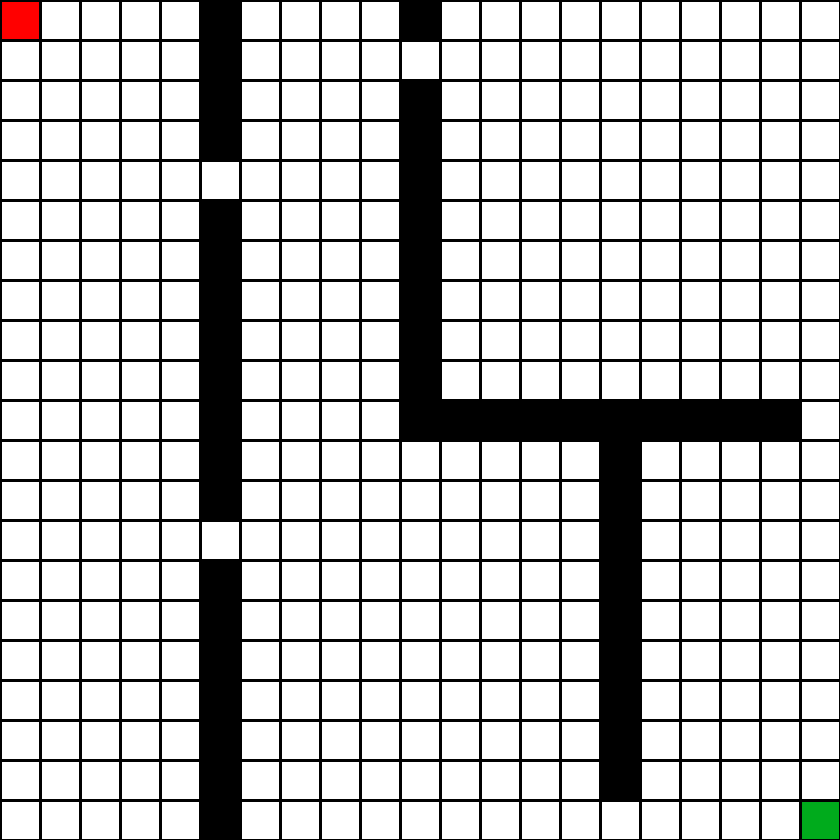
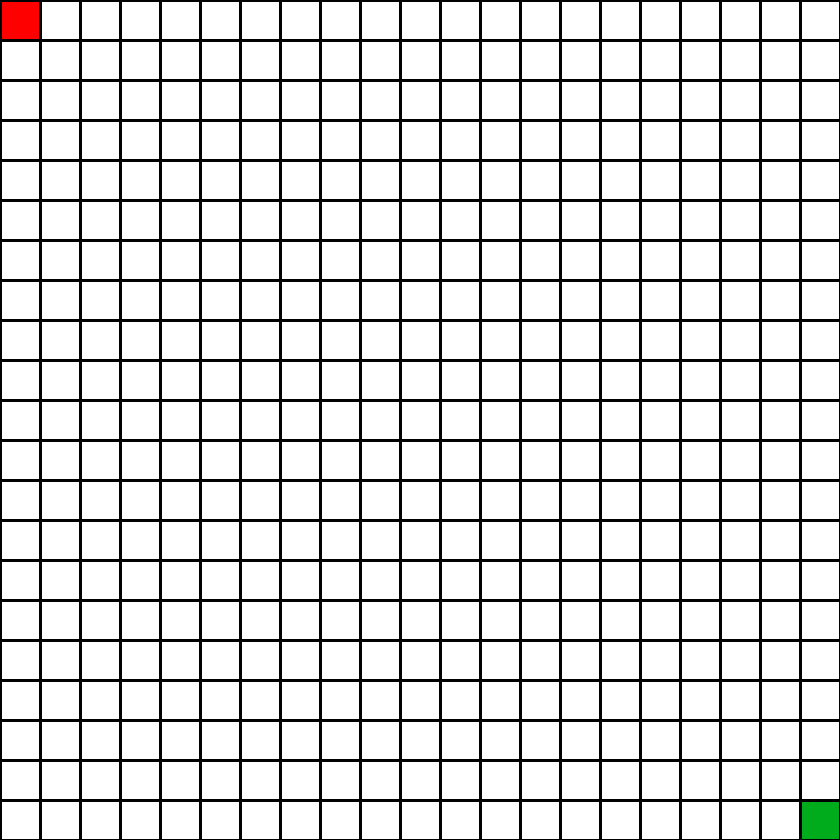
Revamping Maze Logic

diff --git a/MazeTest.py b/MazeTest.py
@@ -1,15 +1,183 @@
 from main import *
+import random
 
-mazeWidth = 21
-mazeLength = 21
+mazeWidth = 20
+mazeLength = 20
 
-testMaze = Maze(mazeWidth, mazeLength, (0,0), (20,20))
 
-area = mazeLength*mazeWidth
+def output_image(filename, Puzzle):
+    from PIL import Image, ImageDraw
+    cell_size = 40
+    cell_border = 2
 
-testMaze.mazeBorderCreate()
+    # Create a blank canvas
+    img = Image.new(
+        "RGBA",
+        (mazeWidth * cell_size, mazeLength * cell_size),
+        "black"
+    )
+    draw = ImageDraw.Draw(img)
 
-testMaze.RecursiveDevision(startx = 0, endx = mazeWidth, starty = 0, endy = mazeLength, mode = 0, startxin=0, endxin = mazeWidth, startyin = 0, endyin = mazeLength, resolution =300
-                           , MazeWidth = mazeWidth, MazeLength = mazeLength, stop = False, count=1)
+    #solution = self.solution[1] if self.solution is not None else None
+    for i in range(mazeWidth):
+        #input("Prompt")
+        for j in range(mazeLength):
+
+            # Set Border Visual
+            if Puzzle[i][j] == 1:
+                fill = (40, 40, 40)
+            
+            # Set Path Visual
+            elif Puzzle[i][j] == 0:
+                fill = (255, 255, 255)
+
+            # Set Starting Point Visual
+            elif Puzzle[i][j] == 2:
+                fill = (124, 252, 0)
+
+            # Set Path Visual
+            elif Puzzle[i][j] == 3:
+                fill = (0, 0, 255)
+            # # Walls
+            # if self.__borders[(i,j)] == 1:
+            #     fill = (40, 40, 40)
+
+            # # Start
+            # if (i, j) == self.__start:
+            #     fill = (255, 0, 0)
+
+            # # Goal
+            # elif (i, j) == self.__end:
+            #     fill = (0, 171, 28)
+
+            # elif (i, j) in self.walls.keys():
+            #     fill = (0, 0, 0)
+
+            # elif (i, j) in self.visited.keys():
+            #     fill = (255, 255, 255)
+
+            # # Solution
+            # elif solution is not None and show_solution and (i, j) in solution:
+            #     fill = (220, 235, 113)
+            #
+            # # Explored
+            # elif solution is not None and show_explored and (i, j) in self.explored:
+            #     fill = (212, 97, 85)
+
+            # Empty cell
+
+            # Draw cell
+            # if i != mazeWidth-1 or j != mazeLength-1:
+            draw.rectangle(([(i * cell_size + cell_border, j * cell_size + cell_border),((i + 1) * cell_size - cell_border, (j + 1) * cell_size - cell_border)]),fill=fill)
+
+
+    img.save(filename)
+# testMaze = Maze(mazeWidth, mazeLength, (0,0), (20,20))
+
+# area = mazeLength*mazeWidth
+
+# testMaze.mazeBorderCreate()
+# testMaze.output_image("maze1.png")
+
+# testMaze.RecursiveDevision(startx = 0, endx = mazeWidth, starty = 0, endy = mazeLength, mode = 0, startxin=0, endxin = mazeWidth, startyin = 0, endyin = mazeLength, resolution =300
+#                            , MazeWidth = mazeWidth, MazeLength = mazeLength, stop = False, count=1)
                            
-testMaze.output_image("maze1.png")
+# testMaze.output_image("maze2.png")
+
+
+# 0 = Init, 1 = Border, 2 = Start,, 3 = Path
+# Init Maze
+Puzzle = []
+for i in range(mazeWidth):
+    temp = []
+    for j in range(mazeLength):
+        temp.append(0)
+    Puzzle.append(temp)
+
+# Create Maze Border
+for i in range(mazeWidth):
+    #input("Prompt")
+    for j in range(mazeLength):
+        if (i == 0) or (i == mazeWidth - 1) or (j == 0) or (j == mazeLength-1):
+            Puzzle[i][j] = 1
+
+# Choose a random starting point
+startChosen = False
+while not startChosen:
+    rnd_indxX = random.randrange(len(Puzzle))
+    rnd_indxY = random.randrange(len(Puzzle[0]))
+
+    if Puzzle[rnd_indxX][rnd_indxY] != 1:
+        Puzzle[rnd_indxX][rnd_indxY] = 2
+        startChosen = True
+
+#Define Walls
+# Puzzle[rnd_indxX+1][rnd_indxY-1] = 1
+# Puzzle[rnd_indxX+1][rnd_indxY+1] = 1
+# Puzzle[rnd_indxX-1][rnd_indxY-1] = 1
+# Puzzle[rnd_indxX-1][rnd_indxY+1] = 1
+
+def findCycle(Puzzle, x, y):
+    if (Puzzle[x][y+1] == 3) and (Puzzle[x+1][y+1] == 3) and (Puzzle[x+1][y] == 3):
+        cycle = True
+    elif (Puzzle[x][y+1] == 3) and (Puzzle[x-1][y+1] == 3) and (Puzzle[x-1][y] == 3):
+        cycle = True
+    elif (Puzzle[x][y-1] == 3) and (Puzzle[x-1][y-1] == 3) and (Puzzle[x-1][y] == 3):
+        cycle = True
+    elif (Puzzle[x][y-1] == 3) and (Puzzle[x+1][y-1] == 3) and (Puzzle[x+1][y] == 3):
+        cycle = True
+    else:
+        cycle = False
+    return cycle
+        
+
+def chooseDirection(x, y, Puzzle):
+    Direction = ['up','down','left','right']
+    validPathChosen = False
+    checkUP = False
+    checkDN = False
+    checkLT = False
+    checkRT = False
+    while not validPathChosen:
+        step = random.choice(Direction)
+        if step == 'up':
+            if (Puzzle[x][y+1] == 0) and findCycle(Puzzle, x, y+1) == False:
+                y += 1
+                validPathChosen = True
+            else:
+                checkUP = True
+        elif step =='down':
+            if (Puzzle[x][y-1] == 0) and findCycle(Puzzle, x, y-1) == False:
+                y -= 1
+                validPathChosen = True
+            else:
+                checkDN = True
+        elif step =='left':
+            if (Puzzle[x-1][y] == 0) and findCycle(Puzzle, x-1, y) == False:
+                x -= 1
+                validPathChosen = True
+            else:
+                checkLT = True
+        elif step =='right':
+            if (Puzzle[x+1][y] == 0) and findCycle(Puzzle, x+1, y) == False:
+                x += 1
+                validPathChosen = True
+            else:
+                checkRT = True
+
+        if checkRT and checkLT and checkDN and checkUP:
+            print('No Valid Path')
+            break
+            
+    return  x, y
+
+
+x, y = chooseDirection(rnd_indxX, rnd_indxY, Puzzle)
+Puzzle[x][y] = 3
+
+for i in range(30):
+    x, y = chooseDirection(x, y, Puzzle)
+    Puzzle[x][y] = 3
+
+    
+output_image('filename.png', Puzzle)

diff --git a/main.py b/main.py
@@ -180,7 +180,7 @@ class Maze(object):
                 areaUppRight = (endx - x)*(y - starty)
                 areaDownLeft = (x - startx)*(endy - y)
                 areaDownRight = (endx - x)*(endy - y)
-                if count > 4:
+                if count > 7:
                     stop = True
                     print("Stopped")
                 print(areaDownRight)
@@ -199,13 +199,13 @@ class Maze(object):
                 areaUppRight = (endx - x) * (y - starty)
                 areaDownLeft = (x - startx) * (endy - y)
                 areaDownRight = (endx - x) * (endy - y)
-                if count > 4:
+                if count > 7:
                     stop = True
                     print("Stopped")
                 print(areaDownRight)
                 print(count)
                 m = 1
-            if count < 2:
+            if count < 6:
                 if m == 1:
                     self.RecursiveDevision(startx, endx, starty, y, m, startxin, endxin, startyin, endyin, resolution, MazeWidth, MazeLength, stop, count+1) # Upp Right, m=1
                     self.RecursiveDevision(startx, x, starty, y, m, startxin, endxin, startyin, endyin, resolution, MazeWidth, MazeLength, stop, count+1) # Upp Left, m=2
